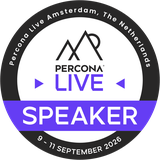
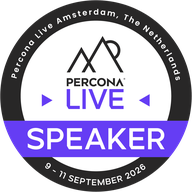
Show speaker badges without the ALT chip, at 64px.
The photo indicator still marks content images. A speaker badge keeps its alt text and renders large enough to read, without moving the Video button.

diff --git a/events.html b/events.html
@@ -15,7 +15,7 @@ ul.list li.sr a.ab{display:inline-flex;gap:4px;width:72px;height:24px;margin:0;p
 li.sr .acts{grid-template-columns:72px 72px;align-self:start;padding-top:2px}li.sr .ab svg{flex:none}
 @media(max-width:760px){ul.list li.sr{display:flex;flex-wrap:wrap;justify-content:space-between;align-items:flex-start;gap:4px 12px}li.sr .stt{flex-basis:100%;order:2}li.sr .acts{order:3}li.sr .cr{order:1;margin-left:auto}li.sr .dt{order:0}ul.list li.sr::before,ul.list li.sr::after{display:none}li.sr .dt,li.sr .cr{padding-top:0}}
 ul.list li.sr>.cr{padding:0;margin:0}@media(max-width:760px){ul.list li.sr>.cr{padding:0;margin:0 0 0 auto}}
-li.sr .stt.hasb{display:flex;align-items:flex-start;gap:10px}li.sr .stx{min-width:0;flex:1}li.sr .badge{width:44px;height:44px;border-radius:50%;flex:none;display:block;object-fit:cover}</style></head><body><div class="tileband" aria-hidden="true"></div><div class="wrap"><header class="site"><a class="brand" href="index.html"><svg class="mark" width="20" height="20" aria-hidden="true" viewBox="0 0 24 24" xmlns="http://www.w3.org/2000/svg"><rect width="24" height="24" rx="2" fill="#F7F3EA"/><rect x=".5" y=".5" width="23" height="23" rx="2" fill="none" stroke="#1F3F8F"/><path d="M12 3l2.3 4.4L19 5l-2.4 4.7L21 12l-4.4 2.3L19 19l-4.7-2.4L12 21l-2.3-4.4L5 19l2.4-4.7L3 12l4.4-2.3L5 5l4.7 2.4z" fill="#1F3F8F"/><circle cx="12" cy="12" r="3.2" fill="#F7F3EA"/><circle cx="12" cy="12" r="1.6" fill="#2F7F73"/><g fill="#2F7F73"><path d="M0 0h3.5L0 3.5zM24 0h-3.5L24 3.5zM0 24h3.5L0 20.5zM24 24h-3.5L24 20.5z"/></g></svg>Gülçin Yıldırım Jelínek</a><nav class="nav"><a href="writing.html">Writing</a><a href="events.html" class="on">Speaking</a><a href="stats.html">Reading</a><a href="memories.html">Memories</a><a href="about.html">About</a></nav></header>
+li.sr .stt.hasb{display:flex;align-items:flex-start;gap:10px}li.sr .stx{min-width:0;flex:1}li.sr .badge{width:64px;height:64px;border-radius:50%;flex:none;display:block;object-fit:cover}</style></head><body><div class="tileband" aria-hidden="true"></div><div class="wrap"><header class="site"><a class="brand" href="index.html"><svg class="mark" width="20" height="20" aria-hidden="true" viewBox="0 0 24 24" xmlns="http://www.w3.org/2000/svg"><rect width="24" height="24" rx="2" fill="#F7F3EA"/><rect x=".5" y=".5" width="23" height="23" rx="2" fill="none" stroke="#1F3F8F"/><path d="M12 3l2.3 4.4L19 5l-2.4 4.7L21 12l-4.4 2.3L19 19l-4.7-2.4L12 21l-2.3-4.4L5 19l2.4-4.7L3 12l4.4-2.3L5 5l4.7 2.4z" fill="#1F3F8F"/><circle cx="12" cy="12" r="3.2" fill="#F7F3EA"/><circle cx="12" cy="12" r="1.6" fill="#2F7F73"/><g fill="#2F7F73"><path d="M0 0h3.5L0 3.5zM24 0h-3.5L24 3.5zM0 24h3.5L0 20.5zM24 24h-3.5L24 20.5z"/></g></svg>Gülçin Yıldırım Jelínek</a><nav class="nav"><a href="writing.html">Writing</a><a href="events.html" class="on">Speaking</a><a href="stats.html">Reading</a><a href="memories.html">Memories</a><a href="about.html">About</a></nav></header>
 <h1>Speaking</h1>
 <p class="lede" id="cnt">Conference talks, keynotes and community events.</p>
 <a class="mstrip" href="memories.html"><img src="memories/openhouse-munich-2026-thumb.jpg" alt="Selfie of Gülçin with a fellow attendee at ClickHouse Open House Munich, October 2026"><img src="memories/pgday-lowlands-2026-stage-thumb.jpg" alt="Gülçin on stage at PGDay Lowlands, September 2026"><img src="memories/prague-postgresql-meetup-thumb.jpg" alt="Selfie of Gülçin with a fellow organiser at the Prague PostgreSQL Meetup, September 2026"><span>Memories →</span></a>

diff --git a/alt.js b/alt.js
@@ -1,4 +1,5 @@
-/* Visible ALT badge for every content image with non-empty alt text.
+/* Visible ALT badge for content photos with non-empty alt text.
+   Speaker badges (.badge) keep their alt attribute and do not get the chip.
    Shared so images injected later (covers, thumbnails, lightbox) get one too. */
 (function () {
   if (window.__altBadge) return;
@@ -11,7 +12,7 @@
   var swallowClick = false;
 
   function described(img) {
-    return img && img.tagName === "IMG" && (img.getAttribute("alt") || "").trim();
+    return img && img.tagName === "IMG" && !img.classList.contains("badge") && (img.getAttribute("alt") || "").trim();
   }
 
   function stop(e) {

diff --git a/alt.css b/alt.css
@@ -63,8 +63,6 @@ button.altbadge{
   user-select:none;
 }
 .mstrip button.altbadge{left:3px;bottom:3px;padding:1px 4px;font-size:9px}
-li.sr .stt>.altframe{flex:none;width:44px;height:44px;line-height:0}
-li.sr .stt button.altbadge{top:1px;bottom:auto;left:1px;padding:0 3px;font-size:8px;letter-spacing:.04em;border-radius:3px;line-height:1.15}
 button.altbadge:hover{background:#fff}
 button.altbadge:focus{outline:none}
 button.altbadge:focus-visible{
